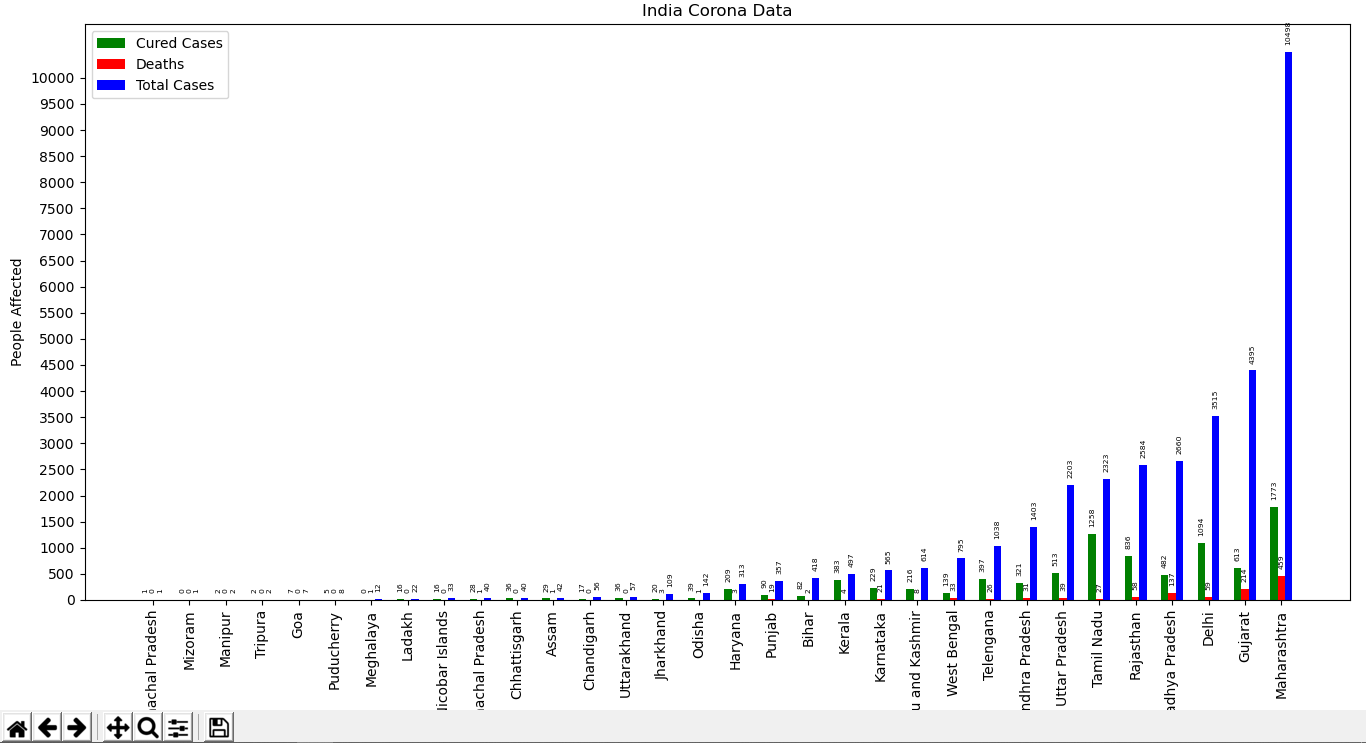
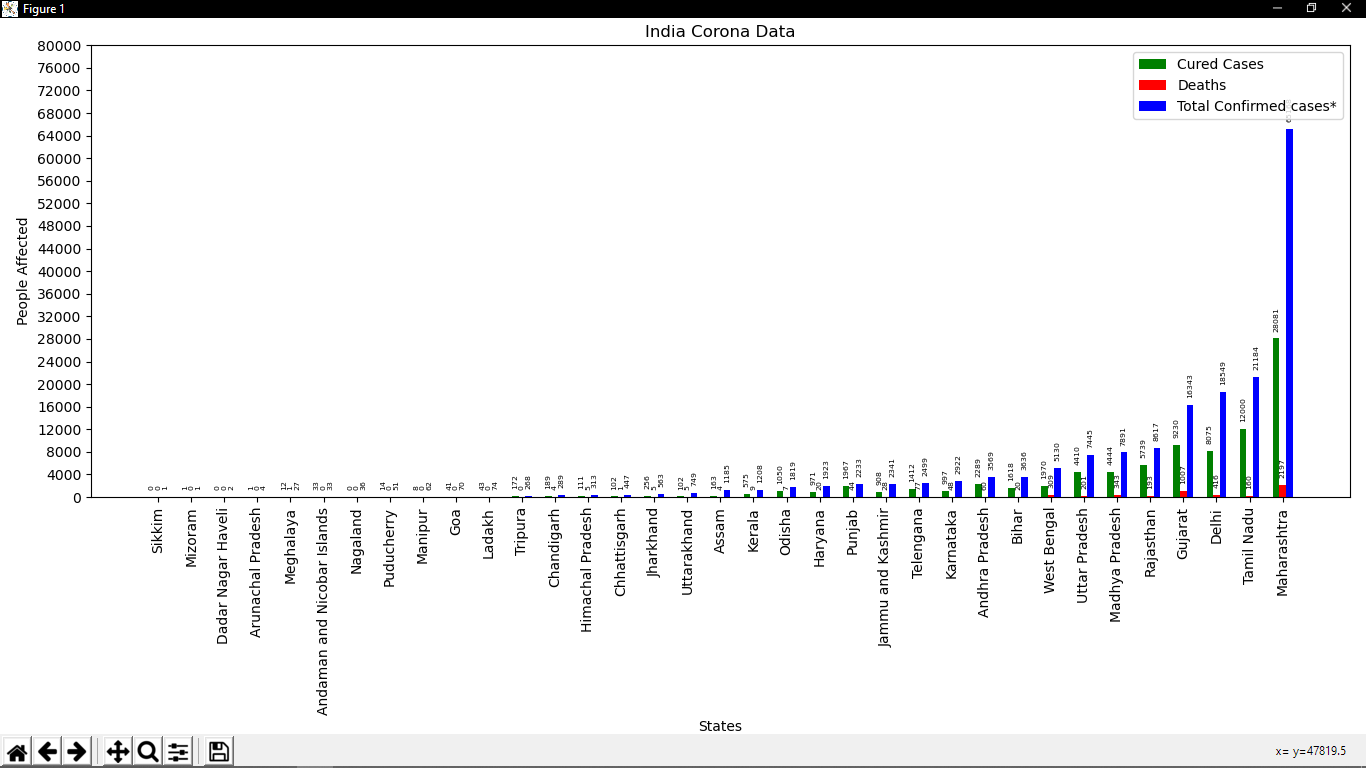
Great changes with optimization
table extraction optimized and cleaned

diff --git a/Corona-Data.py b/Corona-Data.py
@@ -5,64 +5,67 @@ import numpy as np
 import pandas as pd
 
 
-#A function which returns data as {'cases':[1, 2, 3], 'States':['Goa', 'Kerala', 'other stater']}
+
 def tabledata(tablehtml):
+    """
+    A function which returns data as {'cases':[1, 2, 3], 'States':['Goa', 'Kerala', 'other stater']}
+    It takes html format of a table and returns a well-defined dictionery
+    """
     data = {}
+
     #Finds column heads
     table_heads = tablehtml.find('thead').find('tr').findAll('th')
-    row_h = [table_head.find('strong').text.strip() for table_head in table_heads]
     #Create a dictionary with keys as Column head and values as empty list
-    for i in range(5): data[row_h[i]] = []
+    for table_head in table_heads:
+        data[table_head.text.strip()] = []
 
     #Finds data under a specific column
-    table_bodys = tablehtml.find('tbody').findAll('tr')
+    table_bodies = tablehtml.find('tbody').findAll('tr')
     count = 0
-    for table_body in table_bodys:
-        table_body_datas = table_body.findAll('td')
-        #Row as a list
-        row_b = [table_body_data.text.strip() for table_body_data in table_body_datas]
+    for table_body in table_bodies:
+
+        #Limits the total reach of the table_body
+        count += 1
+        if count == 38: break
 
         #Append each data of a row to individual key
-        #If initial sict is like {'cases':[], 'States':[]}
+        #If initial dict is like {'cases':[], 'States':[]}
         #The this loop gives {'cases':[1], 'States':['Goa']} if row is [1, 'Goa']
         #Then in next loop gives {'cases':[1, 2], 'States':['Goa', 'Kerala']} if next row is [2, 'Kerala']
-        for (i, j), k in zip(data.items(), range(5)): j = j.append(row_b[k])
+        for (i, j), table_body_data in zip(data.items(), table_body.findAll('td')):
+            try:
+                j.append(int(table_body_data.text.strip()))
+            except ValueError:
+                j.append(table_body_data.text.strip())
 
-        #This prevents breaking of Panadas
-        count += 1
-        if count == 32: break
-    
-    #Converts String numbers to integer datatype
-    data['Total Cases'] = data.pop('Total Confirmed cases (Including 111 foreign Nationals)')
-    data['Total Cases'] = list(map(int, data['Total Cases']))
-    data['Death'] = list(map(int, data['Death']))
-    data['Cured/Discharged/Migrated'] = list(map(int, data['Cured/Discharged/Migrated']))
-    
     return data
 
 
-def graph(tabledata):
-    #Creates a dataframe. Here tabledata is a well defined dictionery
-    dftable = pd.DataFrame(tabledata)
+def graph(dftable):
+    """
+    Displays a graph using the dictionary's dataframe
+    """
+    #Removes last 2 rows from the data frame for plotting purpose
+    dftable = dftable.drop(dftable.index[[-2, -1]])
     #Sorts whole dataframe in ascending order
-    dftable = dftable.sort_values('Total Cases')
-    #Creates a wellspaced array
-    x = np.linspace(1, len(tabledata['S. No.']), len(tabledata['S. No.']))
+    dftable = dftable.sort_values('Total Confirmed cases*')
+    #Creates a wellspaced array equal to rows in table
+    x = np.linspace(1, len(dftable.index), len(dftable.index))
 
     #Used for plotting multiple data in same frame
     ax = plt.subplot()
     #Creates bar according to the dataframe
-    bar_c = ax.bar(x-0.2, list(dftable['Cured/Discharged/Migrated']), width=0.2, color='g', label='Cured Cases')
-    bar_d = ax.bar(x, list(dftable['Death']), width=0.2, color='r', label='Deaths')
-    bar_t = ax.bar(x+0.2, list(dftable['Total Cases']), width=0.2, color='b', label='Total Cases')
-    
+    bar_c = ax.bar(x-0.2, dftable['Cured/Discharged/Migrated*'], width=0.2, color='g', label='Cured Cases')
+    bar_d = ax.bar(x, dftable['Deaths**'], width=0.2, color='r', label='Deaths')
+    bar_t = ax.bar(x+0.2, dftable['Total Confirmed cases*'], width=0.2, color='b', label='Total Confirmed cases')
+
     #Set the x ticks with list of ticks
     ax.set_xticks(x)
     #Set the labels to the ticks
-    ax.set_xticklabels(list(dftable['Name of State / UT']))
+    ax.set_xticklabels(dftable['Name of State / UT'])
 
     #Set the y ticks with list of ticks
-    ax.set_yticks(np.linspace(0, 10000, 21))
+    ax.set_yticks(np.linspace(0, 80000, 21))
 
     #Create a legend
     ax.legend()
@@ -80,7 +83,7 @@ def graph(tabledata):
             #Formatting and placing the height
             ax.annotate(f'{height}',
                         xy=(rect.get_x() + rect.get_width() / 2, height),
-                        fontsize='5.5',
+                        fontsize='5.6',
                         xytext=(0, 5),
                         textcoords="offset points",
                         ha='center', va='bottom', rotation='90')
@@ -107,19 +110,11 @@ if __name__ == '__main__':
     #Get dictionary output from 'table' data function
     table = tabledata(table_site)
 
-    #Creates a dataframe of the table
+    #Creates a dataframe. Here table is a well defined dictionery
     dftable = pd.DataFrame(table)
-
-    #Adds a row to the dataframe
-    dftable.loc[dftable.index[-1]+  1] = ['','Total number of confirmed cases',dftable['Cured/Discharged/Migrated'].astype(int).sum(),dftable['Death'].astype(int).sum(),dftable['Total Cases'].astype(int).sum()]
 
     #Prints dataframe without the indices
     print(dftable.to_string(index=False))
-    print('Active Cases:', dftable.iloc[-1]['Total Cases']-dftable.iloc[-1]['Cured/Discharged/Migrated']-dftable.iloc[-1]['Death'])
-    
+
     #Displays the Graph
-    graph(table)
-
-
-
-
+    graph(dftable)
